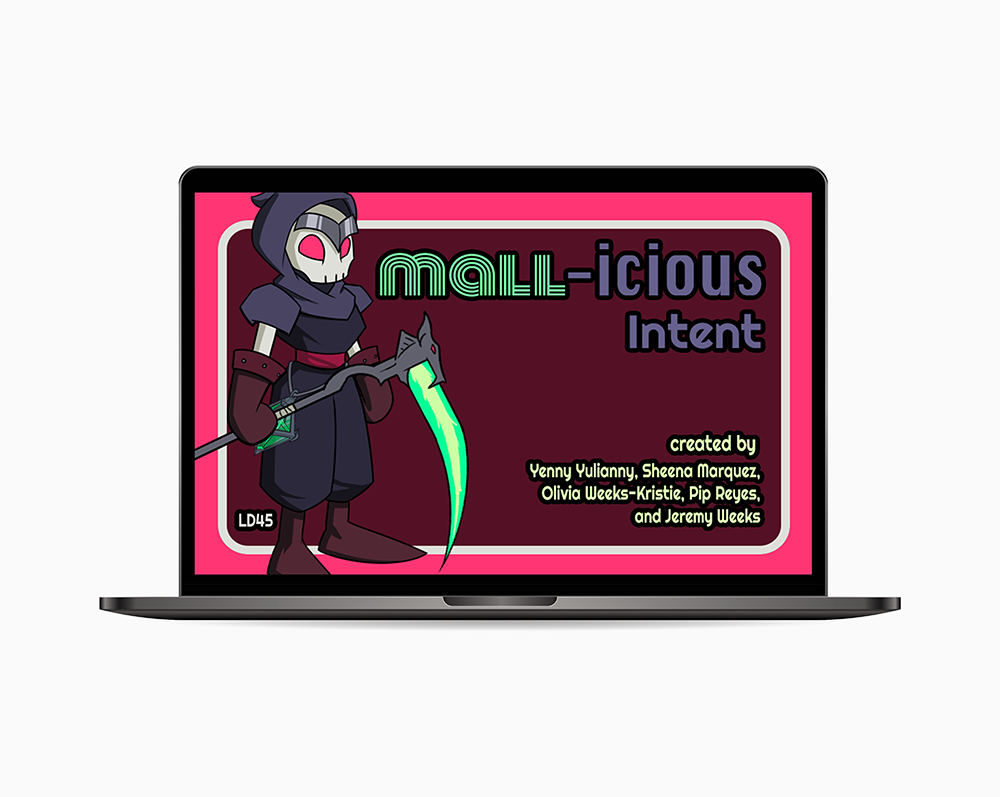
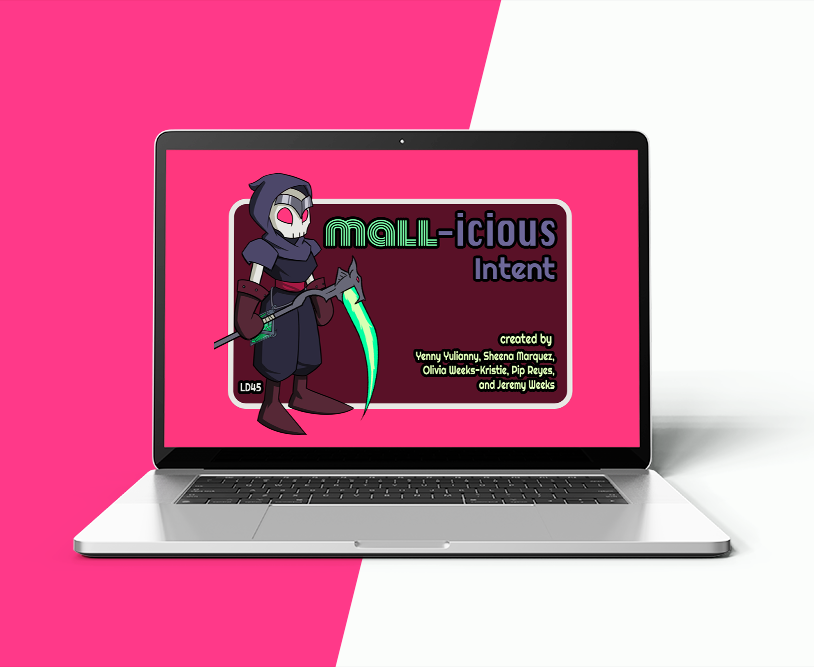
Updated mallicious intent image

diff --git a/app.js b/app.js
@@ -33,7 +33,7 @@ app.get('/', function(req, res){
 app.use('/dynamic/img/*', proxy('res.cloudinary.com', {
   proxyReqPathResolver: function (req) {
     const imagePath = req.params[0];
-    return `/yulianny/image/upload/v1598750055/${imagePath}`
+    return `/yulianny/image/upload/${imagePath}`
   }
 }));
 
@@ -41,7 +41,7 @@ app.use('/dynamic/:size/img/*', proxy('res.cloudinary.com', {
   proxyReqPathResolver: function (req) {
     const imagePath = req.params[0];
     const size = req.params.size;
-    return `/yulianny/image/upload/${size}/v1598750055/${imagePath}`
+    return `/yulianny/image/upload/${size}/${imagePath}`
   }
 }));
 

diff --git a/static/css/style.css b/static/css/style.css
@@ -428,7 +428,8 @@ background-color: #655397;
 }
 
 .project.mall {
-background-image: url(../img/cover/mallicious-intent.png);
+/*background-image: url(../mg/cover/mallicious-intent.png);*/
+background-image: url(/dynamic/c_fill,w_490,h_490/img/cover/mallicious-intent.png);
 background-color: #fafafa;
 background-repeat: no-repeat;
 background-position: center;
